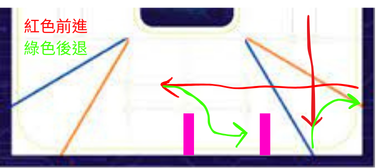
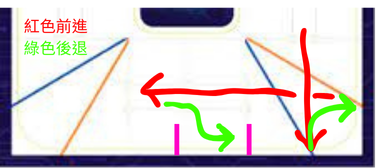
1

Changed region(s): [[0.3511, 0.0893, 0.9654, 0.9524]]

diff --git a/other/work_diary/README.md b/other/work_diary/README.md
@@ -309,9 +309,9 @@ The following is a development record of the self-driving car model design and t
 **Member:** HU XIAN-YI, LIN ZHAN-RONG, ZHANG YI-WEI
 
 **Content:**
- - 我們在本週發現了第三版轉向結構上存在力矩結構問題，
+ - 我們在本週發現了第三版轉向結構上存在力矩結構問題，我們將原先的
 
- - 同時我們開始重新撰寫新的自駕車停車程序流程，**表二**是停車流程的示意圖。
+ - 同時我們開始重新撰寫新的自駕車停車程序流程，**表二**是停車流程的示意圖比較。
 
  - 我們在安裝轉向結構的球形接頭部分時因為已經經過紫外線固化的原因而導致安裝困難，解決方法是在進行紫外線固化前先使用砂紙細磨，組裝起來後放進UV固化機，在固化完畢之後再給活動元件連接處上油，這樣一來就解決了安裝困難及轉動不順滑等問題了。
 
@@ -336,7 +336,7 @@ The following is a development record of the self-driving car model design and t
         </tr>
         <tr>
             <td><img src="./img/9/5.png" width=400 /></td>
-            <td><img src="" width=300 /></td>
+            <td><img src="" width=400 /></td>
         </tr>
     </table>
  </div>
